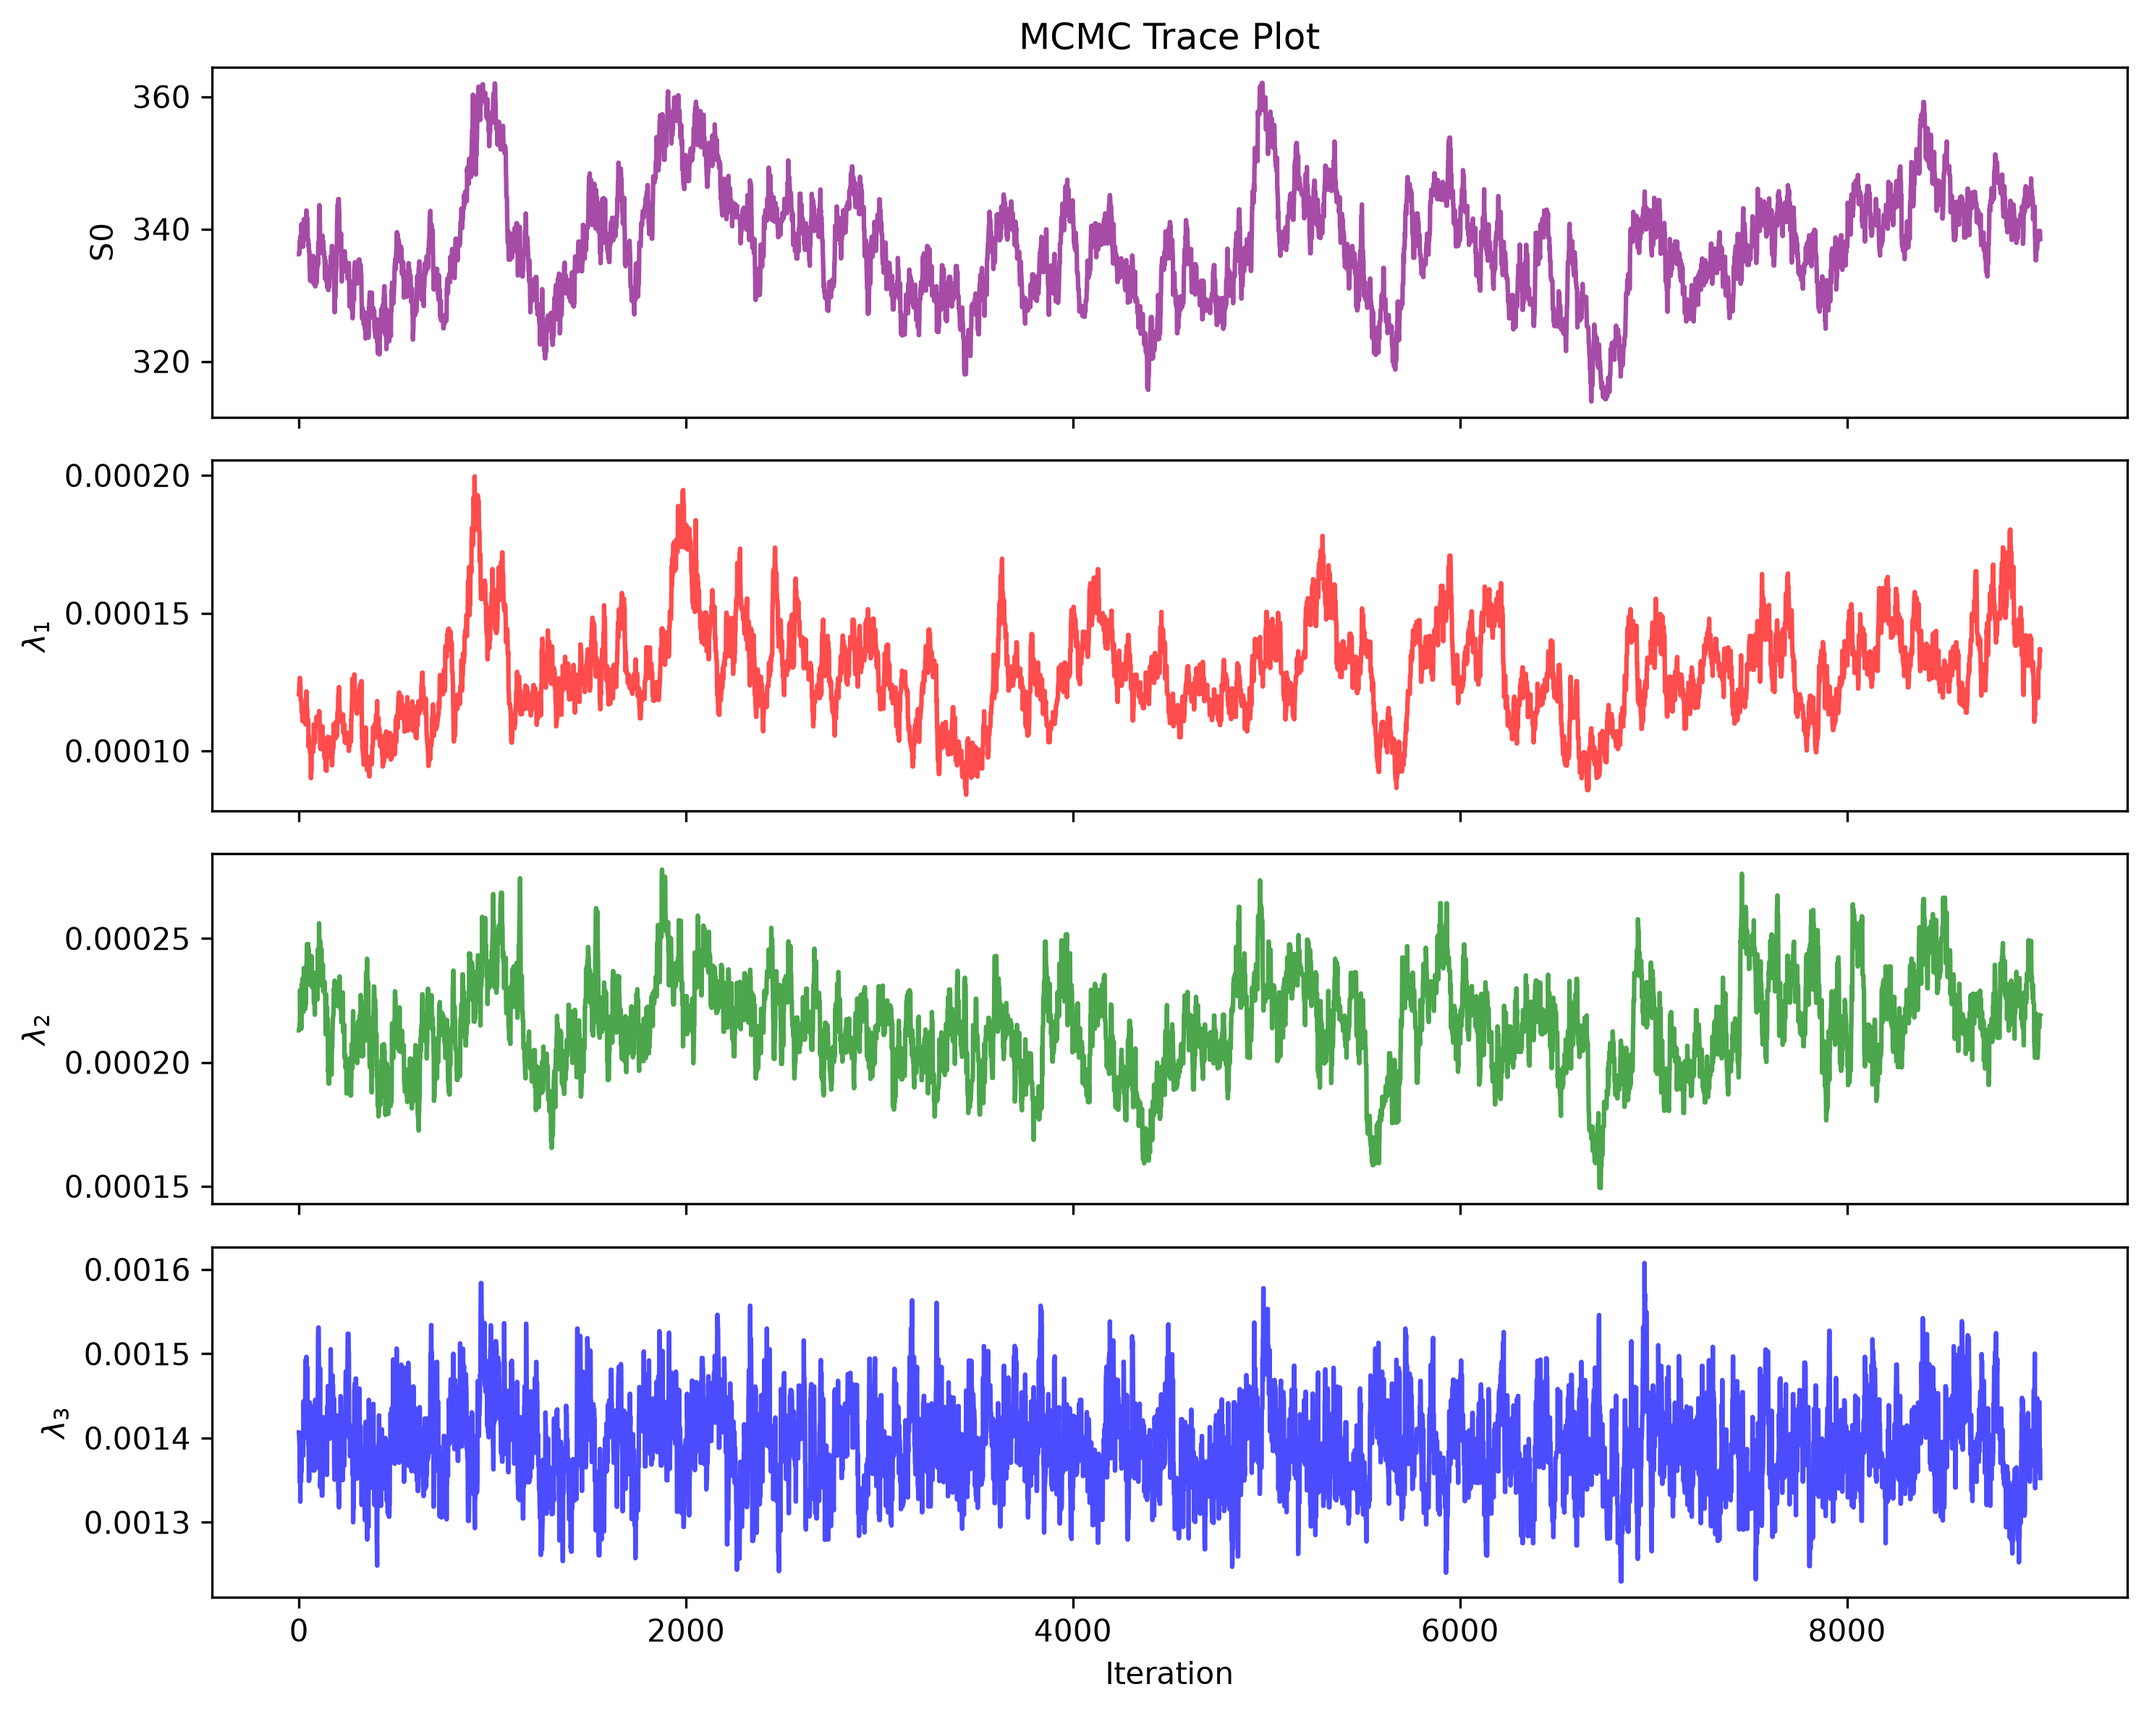
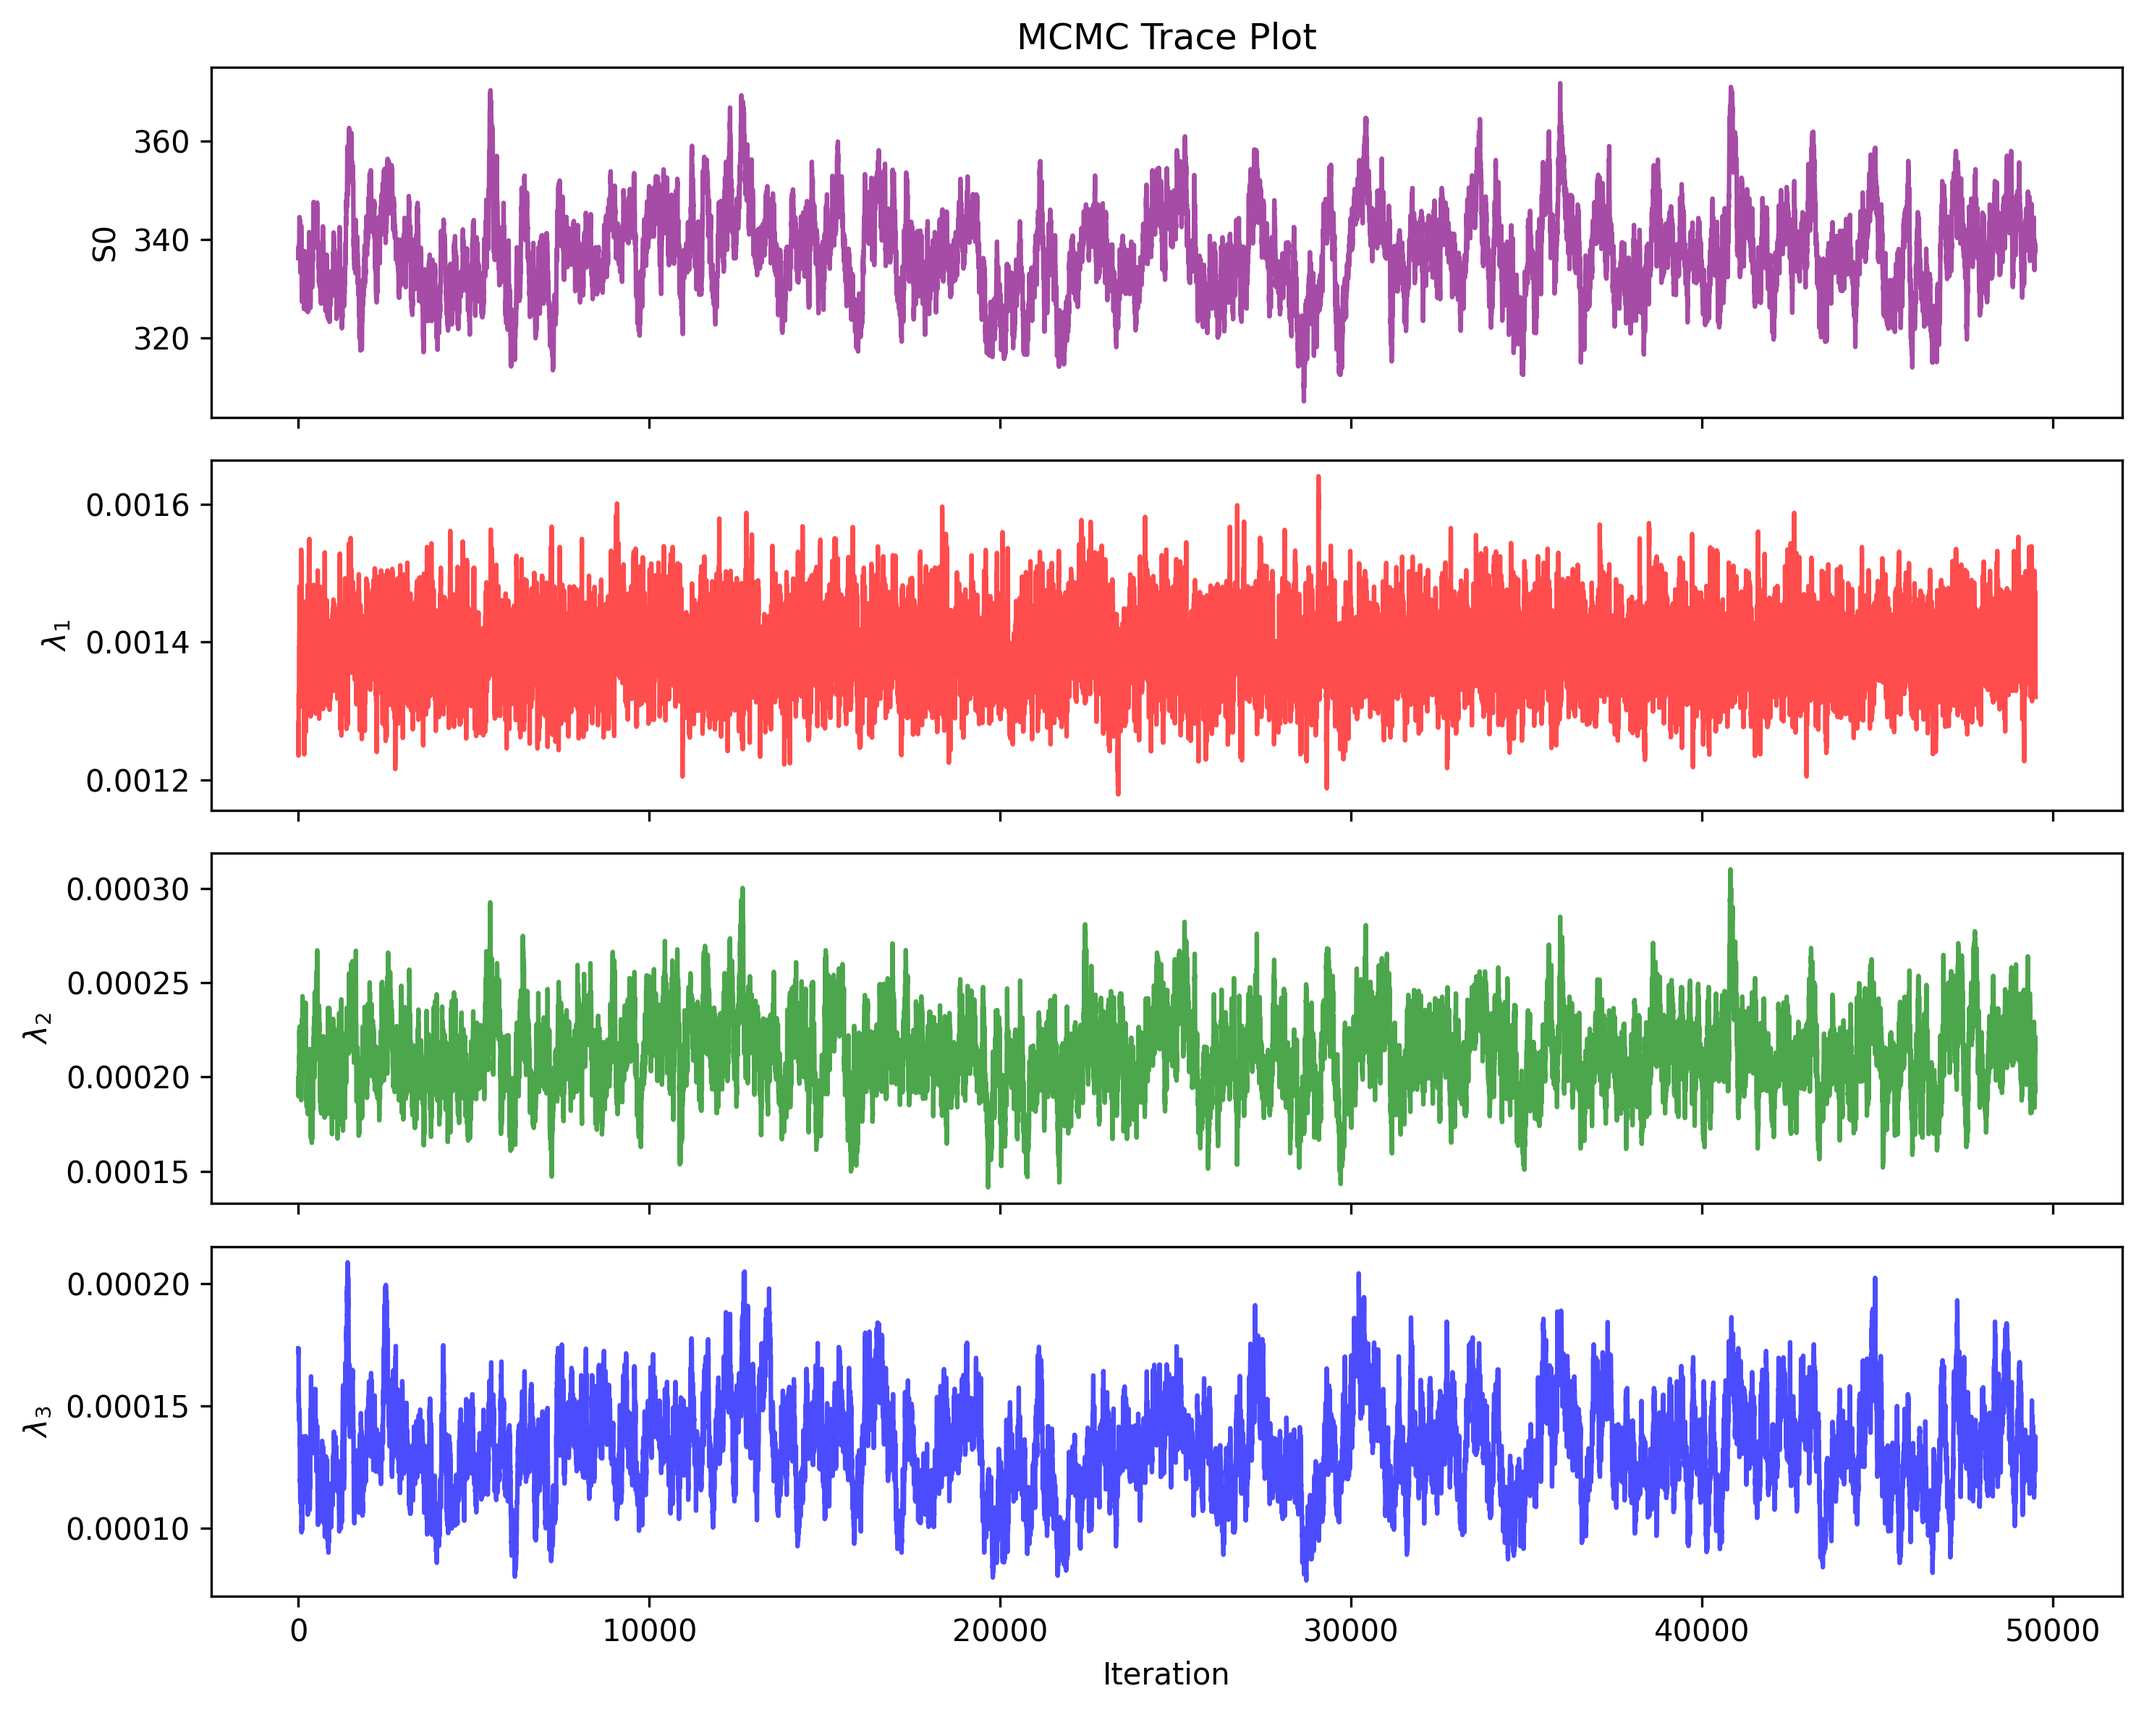
mh changes

diff --git a/dmri_project.py b/dmri_project.py
@@ -573,6 +573,7 @@ def eval_lik(lik_obj, S0, evecs, evals):
 @disk_memoize()
 def metropolis_hastings(n_samples, S0_init, evals_init, evecs_init, prior, likelihood, gamma_param, nu_param):
     # Initialize arrays to store the final decomposed samples
+    # Initialize arrays to store the final decomposed samples
     S0_samples = np.zeros(n_samples)
     evals_samples = np.zeros((n_samples, 3))
     evecs_samples = np.zeros((n_samples, 3, 3))
@@ -581,11 +582,16 @@ def metropolis_hastings(n_samples, S0_init, evals_init, evecs_init, prior, likel
     curr_evals = evals_init
     curr_evecs = evecs_init
     curr_D = compute_D(curr_evals, curr_evecs).squeeze()
-   
+    
     # Evaluate initial posteriors 
     curr_log_prior = eval_prior(prior, curr_S0, curr_evals)
     curr_log_lik = eval_lik(likelihood, curr_S0, curr_evecs, curr_evals)
     curr_log_post = curr_log_prior + curr_log_lik 
+
+    # Compute initial log-Jacobian: sum of log(|lambda_i - lambda_j|)
+    curr_log_jac = (np.log(np.abs(curr_evals[0] - curr_evals[1]) + 1e-15) +
+                    np.log(np.abs(curr_evals[1] - curr_evals[2]) + 1e-15) +
+                    np.log(np.abs(curr_evals[0] - curr_evals[2]) + 1e-15))
 
     accepted = 0
     shape_S0 = gamma_param**(-2)
@@ -604,10 +610,13 @@ def metropolis_hastings(n_samples, S0_init, evals_init, evecs_init, prior, likel
         prop_evals, prop_evecs = np.linalg.eigh(prop_D)
         
         prop_log_prior = eval_prior(prior, prop_S0, prop_evals)
-        
-            
         prop_log_lik = eval_lik(likelihood, prop_S0, prop_evecs, prop_evals)
         prop_log_post = prop_log_lik + prop_log_prior
+
+        # Compute proposed log-Jacobian
+        prop_log_jac = (np.log(np.abs(prop_evals[0] - prop_evals[1]) + 1e-15) +
+                        np.log(np.abs(prop_evals[1] - prop_evals[2]) + 1e-15) +
+                        np.log(np.abs(prop_evals[0] - prop_evals[2]) + 1e-15))
         
         # Compute proposal densities for forward and backward moves
         log_q_fwd = (gamma.logpdf(prop_S0, a=shape_S0, scale=scale_S0_fwd) + 
@@ -619,19 +628,18 @@ def metropolis_hastings(n_samples, S0_init, evals_init, evecs_init, prior, likel
         log_q_bwd = (gamma.logpdf(curr_S0, a=shape_S0, scale=scale_S0_bwd) + 
                      wishart.logpdf(curr_D, df=nu_param, scale=scale_D_bwd))
         
-        log_alpha = (prop_log_post - curr_log_post) + (log_q_bwd - log_q_fwd)
+        # Include (curr_log_jac - prop_log_jac) in log_alpha
+        log_alpha = (prop_log_post - curr_log_post) + (log_q_bwd - log_q_fwd) + (curr_log_jac - prop_log_jac)
         
-
-       
         if np.log(np.random.rand()) < log_alpha:
             curr_S0 = prop_S0
             curr_D = prop_D
             curr_evals = prop_evals  
             curr_evecs = prop_evecs
             curr_log_post = prop_log_post
+            curr_log_jac = prop_log_jac   # Update curr_log_jac on accept
             accepted += 1
             
-      
         S0_samples[i] = curr_S0
         evals_samples[i] = curr_evals
         evecs_samples[i] = curr_evecs
@@ -876,10 +884,11 @@ def main():
     n_samples = 10000
 
     # Run Metropolis–Hastings and plot results
-    S0_mh, evals_mh, evecs_mh = metropolis_hastings(n_samples, S0_init, evals_init[::-1],evecs_init[:, ::-1], frozen_prior_instance, frozen_likelihood_instance, gamma_param=0.005, nu_param=2000.0, force_recompute=True)
-    burn_in = 1000
+    mh_samples = 50000
+    S0_mh, evals_mh, evecs_mh = metropolis_hastings(mh_samples, S0_init, evals_init[::-1],evecs_init[:, ::-1], frozen_prior_instance, frozen_likelihood_instance, gamma_param=0.005, nu_param=2000.0, force_recompute=True)
+    burn_in = 500
     plot_results(S0_mh[burn_in:], evals_mh[burn_in:], evecs_mh[burn_in:, :, :], evec_principal, method="mh")
-    plot_mcmc_traces(S0_mh[burn_in:], evals_mh[burn_in:], n_samples-burn_in)
+    plot_mcmc_traces(S0_mh[burn_in:], evals_mh[burn_in:],mh_samples-burn_in)
 
     # Run Importance Sampling and plot results
     w_is, S0_is, evals_is, evecs_is = importance_sampling(n_samples, gamma_param=0.01, nu_param=500, laplacian_proposal=True, force_recompute=True)
@@ -916,7 +925,7 @@ def plot_mcmc_traces(S0_samples, evals_samples, n_samples):
     axes[0].set_title('MCMC Trace Plot')
     
     # Trace for Principal Eigenvalue (Lambda 1)
-    axes[1].plot(iterations, evals_samples[:, 0], color='red', alpha=0.7)
+    axes[1].plot(iterations, evals_samples[:, 2], color='red', alpha=0.7)
     axes[1].set_ylabel(r'$\lambda_1$')
     
     # Trace for Secondary Eigenvalue (Lambda 2)
@@ -924,7 +933,7 @@ def plot_mcmc_traces(S0_samples, evals_samples, n_samples):
     axes[2].set_ylabel(r'$\lambda_2$')
     
     # Trace for Tertiary Eigenvalue (Lambda 3)
-    axes[3].plot(iterations, evals_samples[:, 2], color='blue', alpha=0.7)
+    axes[3].plot(iterations, evals_samples[:, 0], color='blue', alpha=0.7)
     axes[3].set_ylabel(r'$\lambda_3$')
     axes[3].set_xlabel('Iteration')
     
